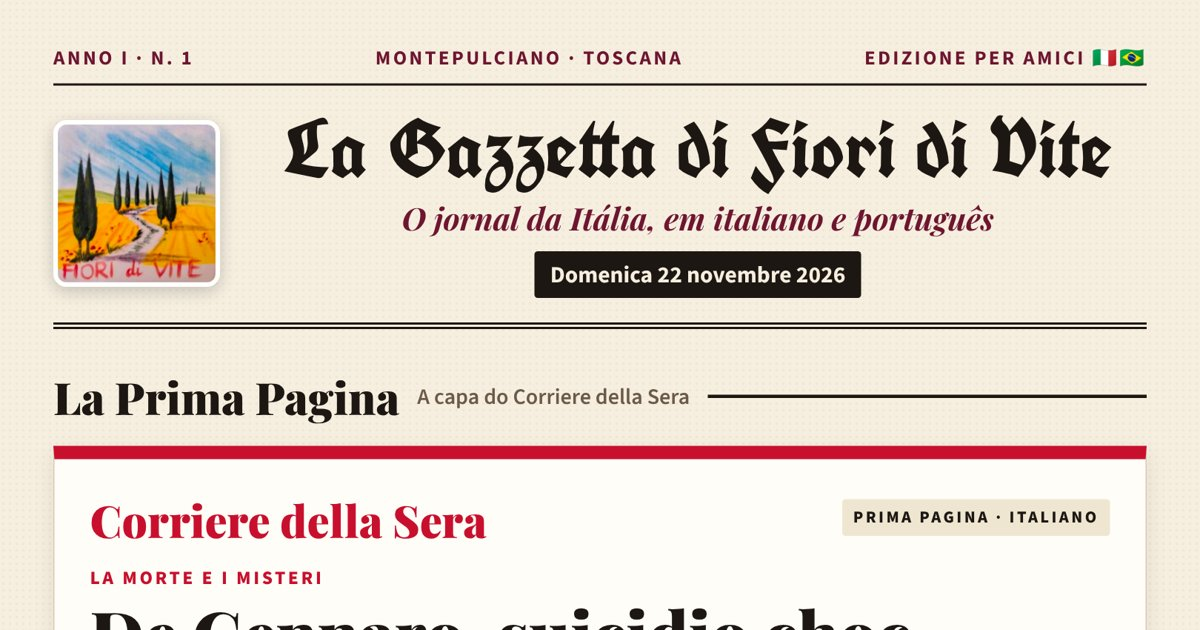
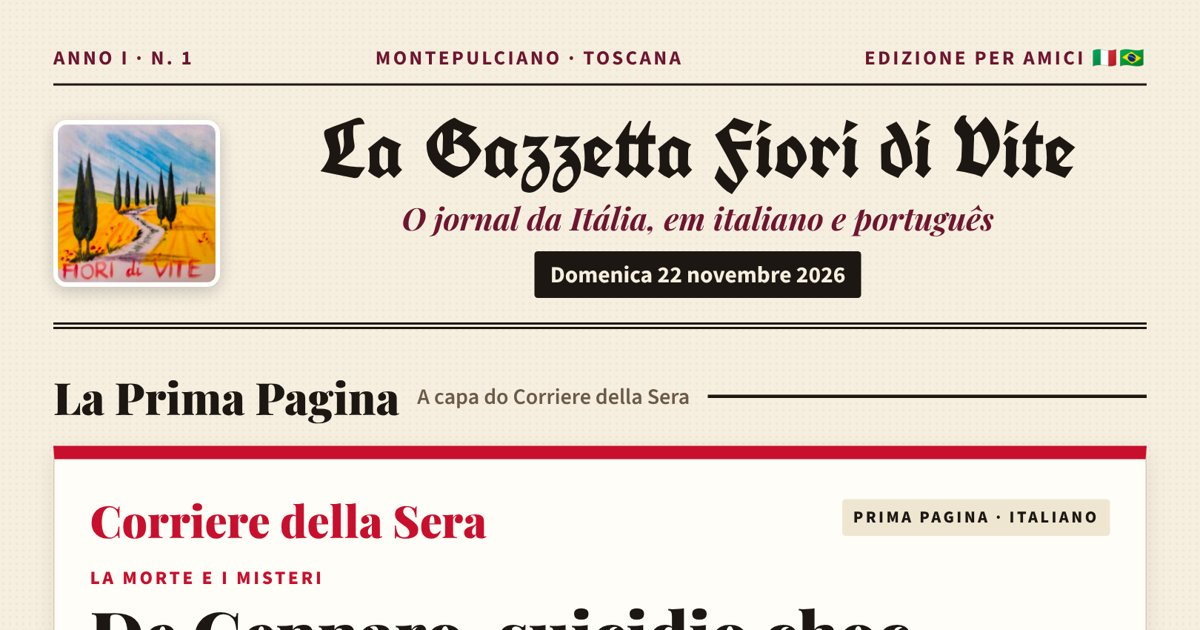
Novo nome: La Gazzetta Fiori di Vite
Claude-Session: https://claude.ai/code/session_01HNZtYKmHvMPdciJ5FDoZJ3

Changed region(s): [[0.2158, 0.181, 0.925, 0.3016]]

diff --git a/index.html b/index.html
@@ -1,9 +1,9 @@
 <!doctype html><html lang="pt-BR"><head><meta charset="utf-8">
 <meta name="viewport" content="width=device-width,initial-scale=1,viewport-fit=cover">
-<title>La Gazzetta di Fiori di Vite</title>
+<title>La Gazzetta Fiori di Vite</title>
 <meta name="description" content="Domenica 22 novembre 2026 · De Gennaro, suicidio choc — Capa do Corriere, cadernos, Montepulciano e Fiorentina, em italiano e português.">
-<meta property="og:type" content="website"><meta property="og:site_name" content="La Gazzetta di Fiori di Vite">
-<meta property="og:title" content="La Gazzetta di Fiori di Vite · De Gennaro, suicidio choc">
+<meta property="og:type" content="website"><meta property="og:site_name" content="La Gazzetta Fiori di Vite">
+<meta property="og:title" content="La Gazzetta Fiori di Vite · De Gennaro, suicidio choc">
 <meta property="og:description" content="Domenica 22 novembre 2026 · De Gennaro, suicidio choc — Capa do Corriere, cadernos, Montepulciano e Fiorentina, em italiano e português.">
 <meta property="og:url" content="https://fioridivite.github.io/">
 <meta property="og:image" content="https://fioridivite.github.io/previa.jpg?v=2026-11-22">
@@ -99,7 +99,7 @@ h2.st:after{content:"";flex:1;border-top:2px solid var(--ink);min-width:20px}
 <div class="wrap">
 <div class="top"><span>Anno I · N. 1</span><span>Montepulciano · Toscana</span></div>
 <header class="mast"><img src="logo.jpg" alt="Logo Fiori di Vite">
-<div class="t"><h1>La Gazzetta di Fiori di Vite</h1><div class="sub">O jornal da Itália, em italiano e português</div>
+<div class="t"><h1>La Gazzetta Fiori di Vite</h1><div class="sub">O jornal da Itália, em italiano e português</div>
 <div class="date"><span>Domenica 22 novembre 2026</span></div></div></header>
 <div class="rule"></div>
 

diff --git a/arquivo/2026-11-22.html b/arquivo/2026-11-22.html
@@ -1,5 +1,5 @@
 <!doctype html><html lang="pt-BR"><head><meta charset="utf-8">
-<meta name="viewport" content="width=device-width,initial-scale=1,viewport-fit=cover"><title>La Gazzetta di Fiori di Vite · 2026-11-22</title>
+<meta name="viewport" content="width=device-width,initial-scale=1,viewport-fit=cover"><title>La Gazzetta Fiori di Vite · 2026-11-22</title>
 <link rel="stylesheet" href="https://fonts.googleapis.com/css2?family=Playfair+Display:ital,wght@0,700;0,900;1,700&family=UnifrakturCook:wght@700&family=Source+Sans+3:wght@400;600;700;800&family=Lora:ital,wght@0,400;0,600;1,400&display=swap"><style>*{box-sizing:border-box;margin:0;padding:0}img{max-width:100%}[hidden]{display:none!important}
 :root{--paper:#f6efe0;--card:#fffdf7;--ink:#1c1712;--muted:#5e4f40;--wine:#6e1530;--gold:#c9a14a;
 --red:#c8102e;--green:#2f7d32;--olive:#55633a;--line:#e3d7bf;--viola:#4b1f7a;color-scheme:light;
@@ -89,7 +89,7 @@ h2.st:after{content:"";flex:1;border-top:2px solid var(--ink);min-width:20px}
 <div class="wrap">
 <div class="top"><span>Anno I · N. 1</span><span>Montepulciano · Toscana</span></div>
 <header class="mast"><img src="../logo.jpg" alt="Logo Fiori di Vite">
-<div class="t"><h1>La Gazzetta di Fiori di Vite</h1><div class="sub">O jornal da Itália, em italiano e português</div>
+<div class="t"><h1>La Gazzetta Fiori di Vite</h1><div class="sub">O jornal da Itália, em italiano e português</div>
 <div class="date"><span>Domenica 22 novembre 2026</span></div></div></header>
 <div class="rule"></div>
 

diff --git a/README.md b/README.md
@@ -1,3 +1,3 @@
-# La Gazzetta di Fiori di Vite
+# La Gazzetta Fiori di Vite
 
 Jornal diário em italiano e português, publicado em https://fioridivite.github.io
